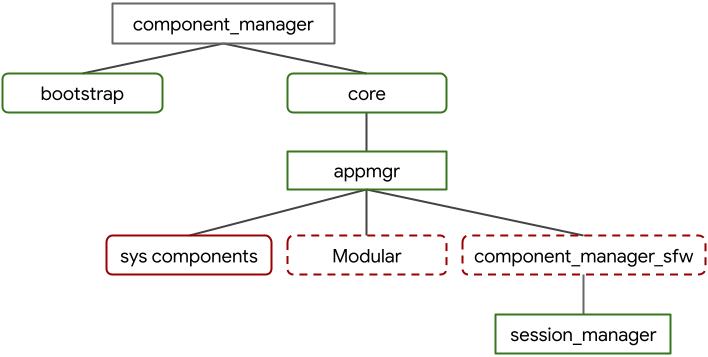
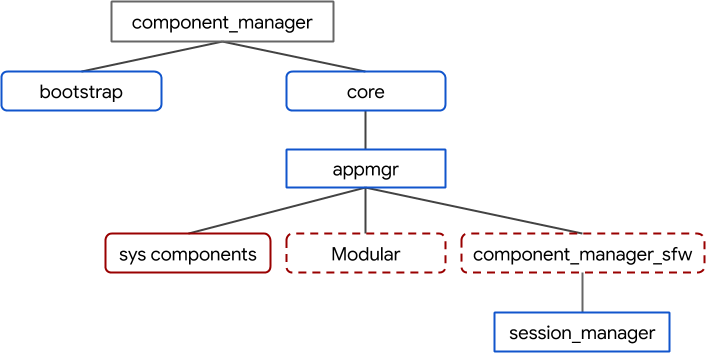
[docs] Avoid red/green color schemes
Easier distinction for readers with some vision impairments.

Commit-Queue: Shai Barack <shayba@google.com>

diff --git a/docs/concepts/components/v2/migration.md b/docs/concepts/components/v2/migration.md
@@ -53,8 +53,8 @@ A high-level diagram of the system's component topology is shown below:
 
 ![Realms diagram](images/high_level_components_topology.png)
 
-*   v2 components are shown in green.
-*   v1 components are shown in red.
+*   v2 components are shown in blue boxes.
+*   v1 components are shown in red boxes.
 *   Boxes with dashed lines represent components that are only present on some
     build configurations.
 
